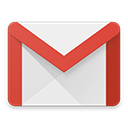
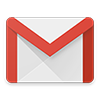
added Stanford Syllabus, more image optimization

diff --git a/js/app.js b/js/app.js
@@ -85,7 +85,7 @@
         image: 'Printing.png',
         alt: 'Stanford Printing',
         link: 'https://printing.stanford.edu/',
-        caption: 'Manage Stanford printing'
+        caption: 'Manage Stanford printing (requires connection to Stanford network or VPN)'
       },
       {
         name: 'Cardinal Sync',
@@ -93,6 +93,13 @@
         alt: 'Cardinal Sync',
         link: 'https://orgsync.com/home/521',
         caption: 'Clubs and activities'
+      },
+      {
+        name: 'Syllabus',
+        image: '',
+        alt: 'Syllabus',
+        link: 'https://syllabus.stanford.edu/',
+        caption: 'View syllabi from current and previous courses'
       },
       {
         name: 'Stanford Bookstore',

diff --git a/index.html b/index.html
@@ -19,7 +19,7 @@
 <div ng-controller="MainController" class="container">
   <div class="header">
     <div id="title" class="col-sm-6">
-      <div><a href="http://www.stanford.edu/"><img src="images/StanfordCardinal.png" height="100" align="center"></a></div>
+      <div><a href="http://www.stanford.edu/"><img src="images/StanfordCardinal.png" height="100"></a></div>
       <div>Everything Stanford</div>
     </div>
     <div id="weatherContainer" class="col-sm-5 col-sm-offset-1">
